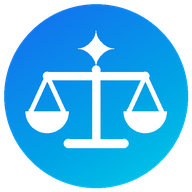
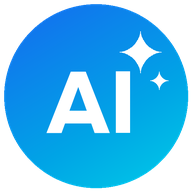
design(tabs): the raised AI button shows a white AI mark with two sparks

Changed region(s): [[0.125, 0.1562, 0.875, 0.7812], [0.375, 0.3438, 0.4375, 0.375]]

diff --git a/DESIGN.md b/DESIGN.md
@@ -45,7 +45,7 @@ iOS (flags on) is a glass-on-colour system.
 - **Cards** are frosted panes, not real glass (a native glass view per list row is too heavy): `glassFill` + `glassLine`, a short bright
   top sheen, no shadow (a shadow would show through the translucent fill). Card-shaped surfaces that are not `<Card>` (rows, panels,
   inputs) use the same two tokens; `surface` stays for opaque things (thumbs, sheets' content). Do not nest cards.
-- The tab bar is the system `NativeTabs` bar; the app's theme is handed to iOS (`Appearance.setColorScheme`) so it matches. The AI tab is a raised button: its slot in the system bar is an empty image, and `AiRaisedButton` stands in it — a brand-gradient disc with white scales of justice and a spark above them (`assets/tabs/ai-orb*.png`) rising above the bar with no caption and a soft ring that breathes out every few seconds (off with Reduce Motion). The AI tab is always the middle slot (an empty disabled `gap` slot beside it when the tab count is even), so the button is centred on the screen; its height constants are at the top of the file. Glows, aurora and glass spheres were tried and dropped as too flashy for the calm, exact tone.
+- The tab bar is the system `NativeTabs` bar; the app's theme is handed to iOS (`Appearance.setColorScheme`) so it matches. The AI tab is a raised button: its slot in the system bar is an empty image, and `AiRaisedButton` stands in it — a brand-gradient disc with a white "AI" mark with two sparks (`assets/tabs/ai-orb*.png`) rising above the bar with no caption and a soft ring that breathes out every few seconds (off with Reduce Motion). The AI tab is always the middle slot (an empty disabled `gap` slot beside it when the tab count is even), so the button is centred on the screen; its height constants are at the top of the file. Glows, aurora and glass spheres were tried and dropped as too flashy for the calm, exact tone.
 
 ## Materials (Android — Material 3 Expressive)
 
